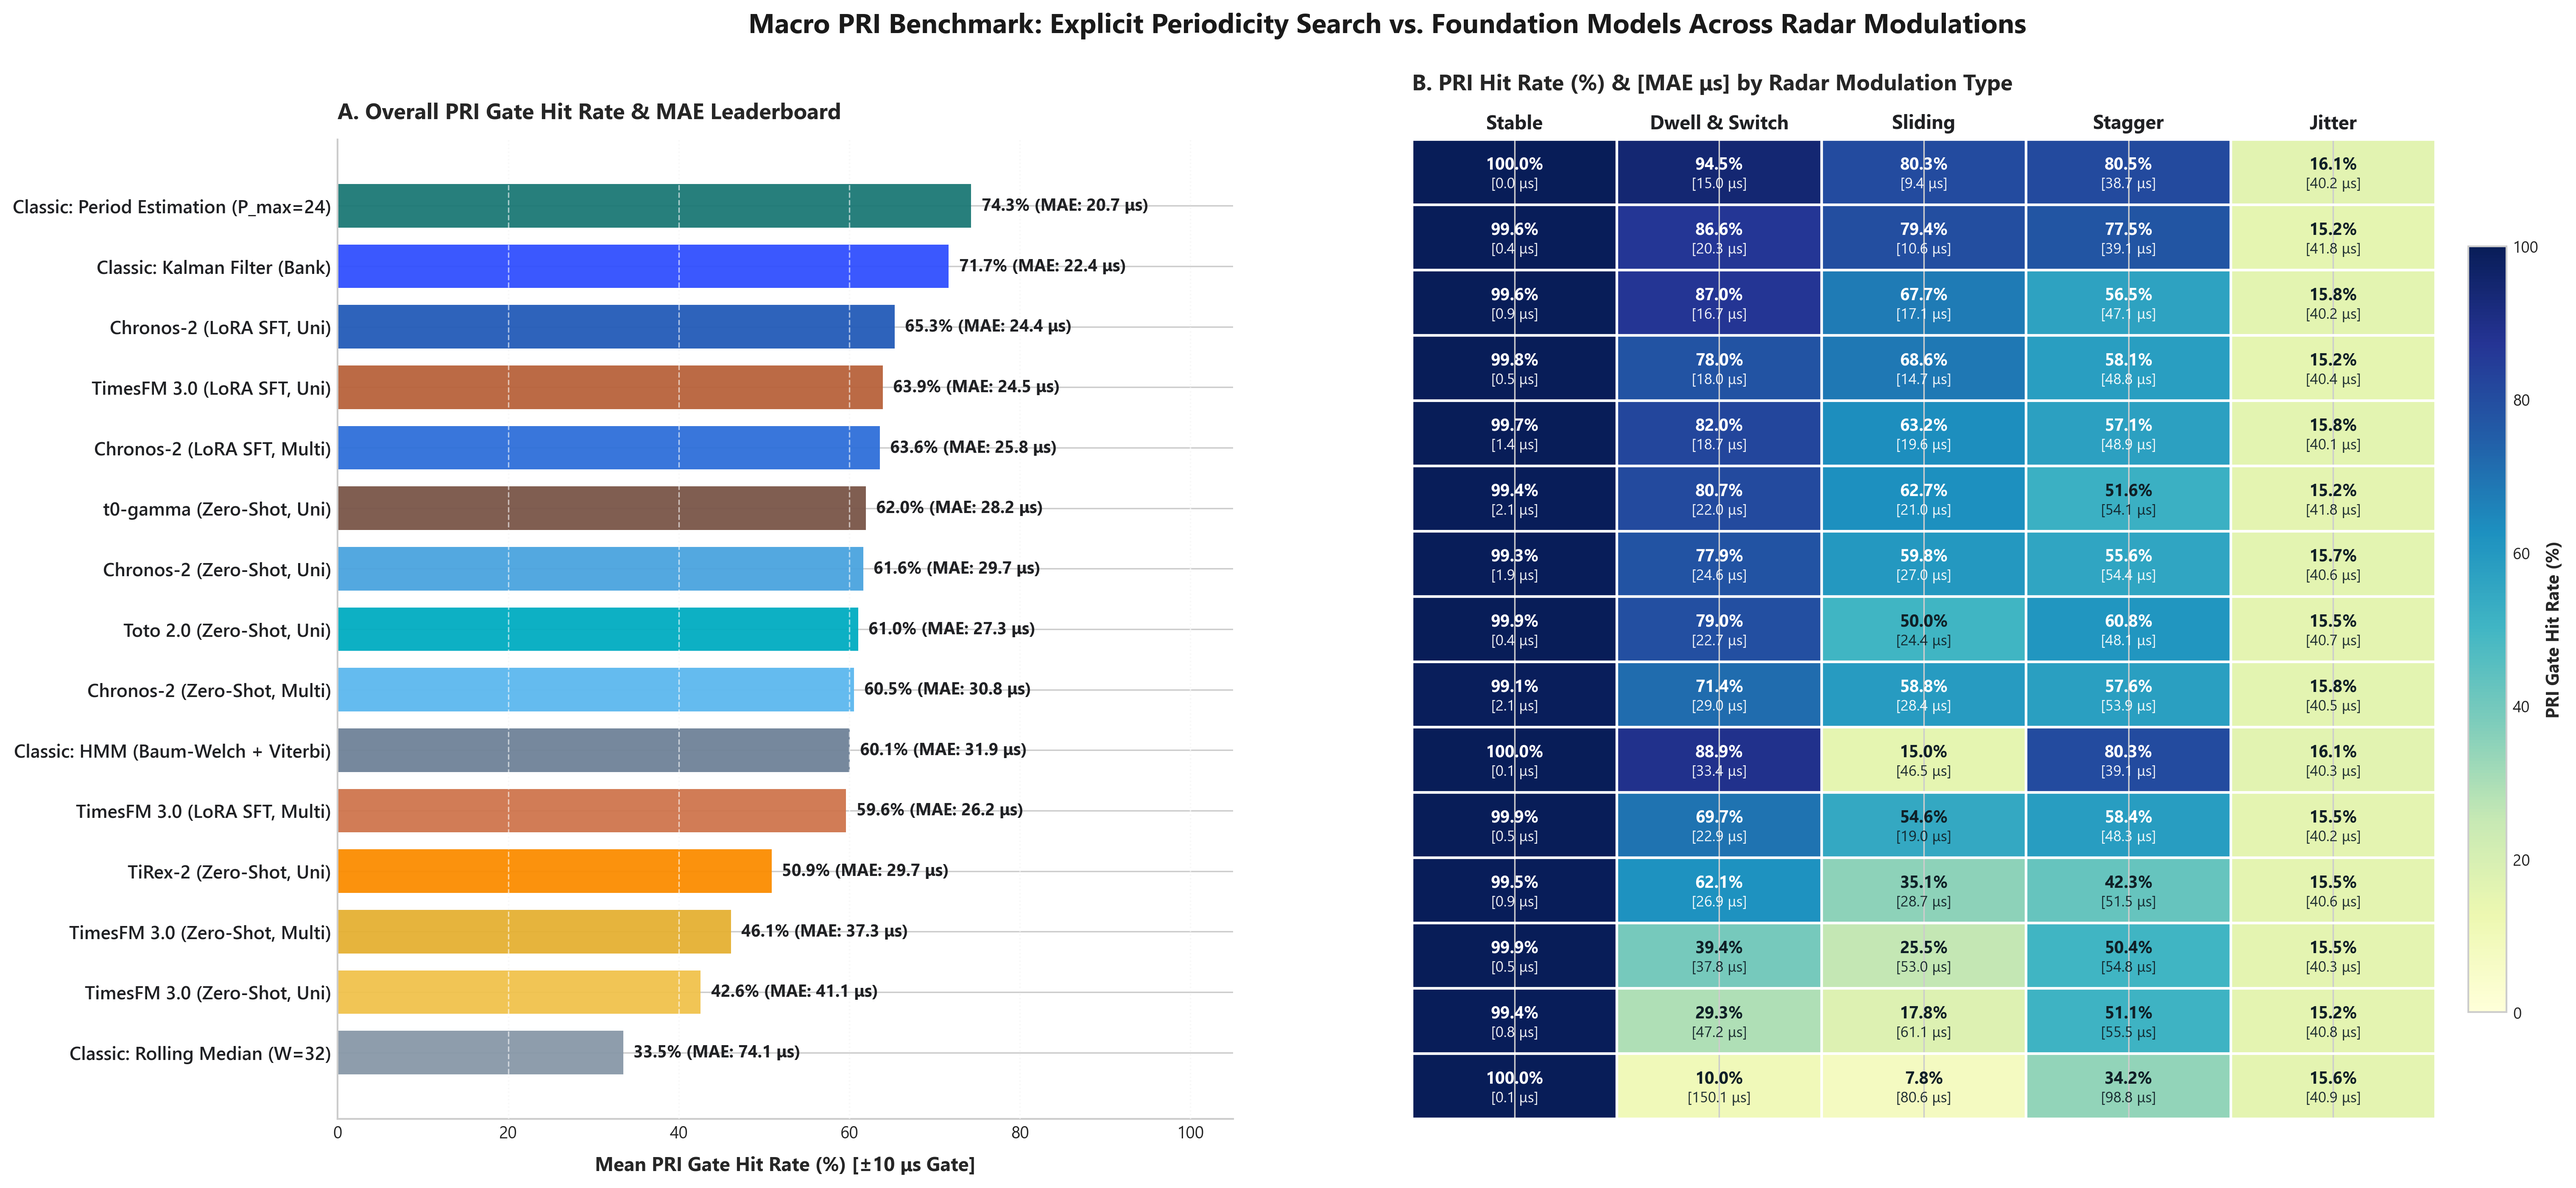
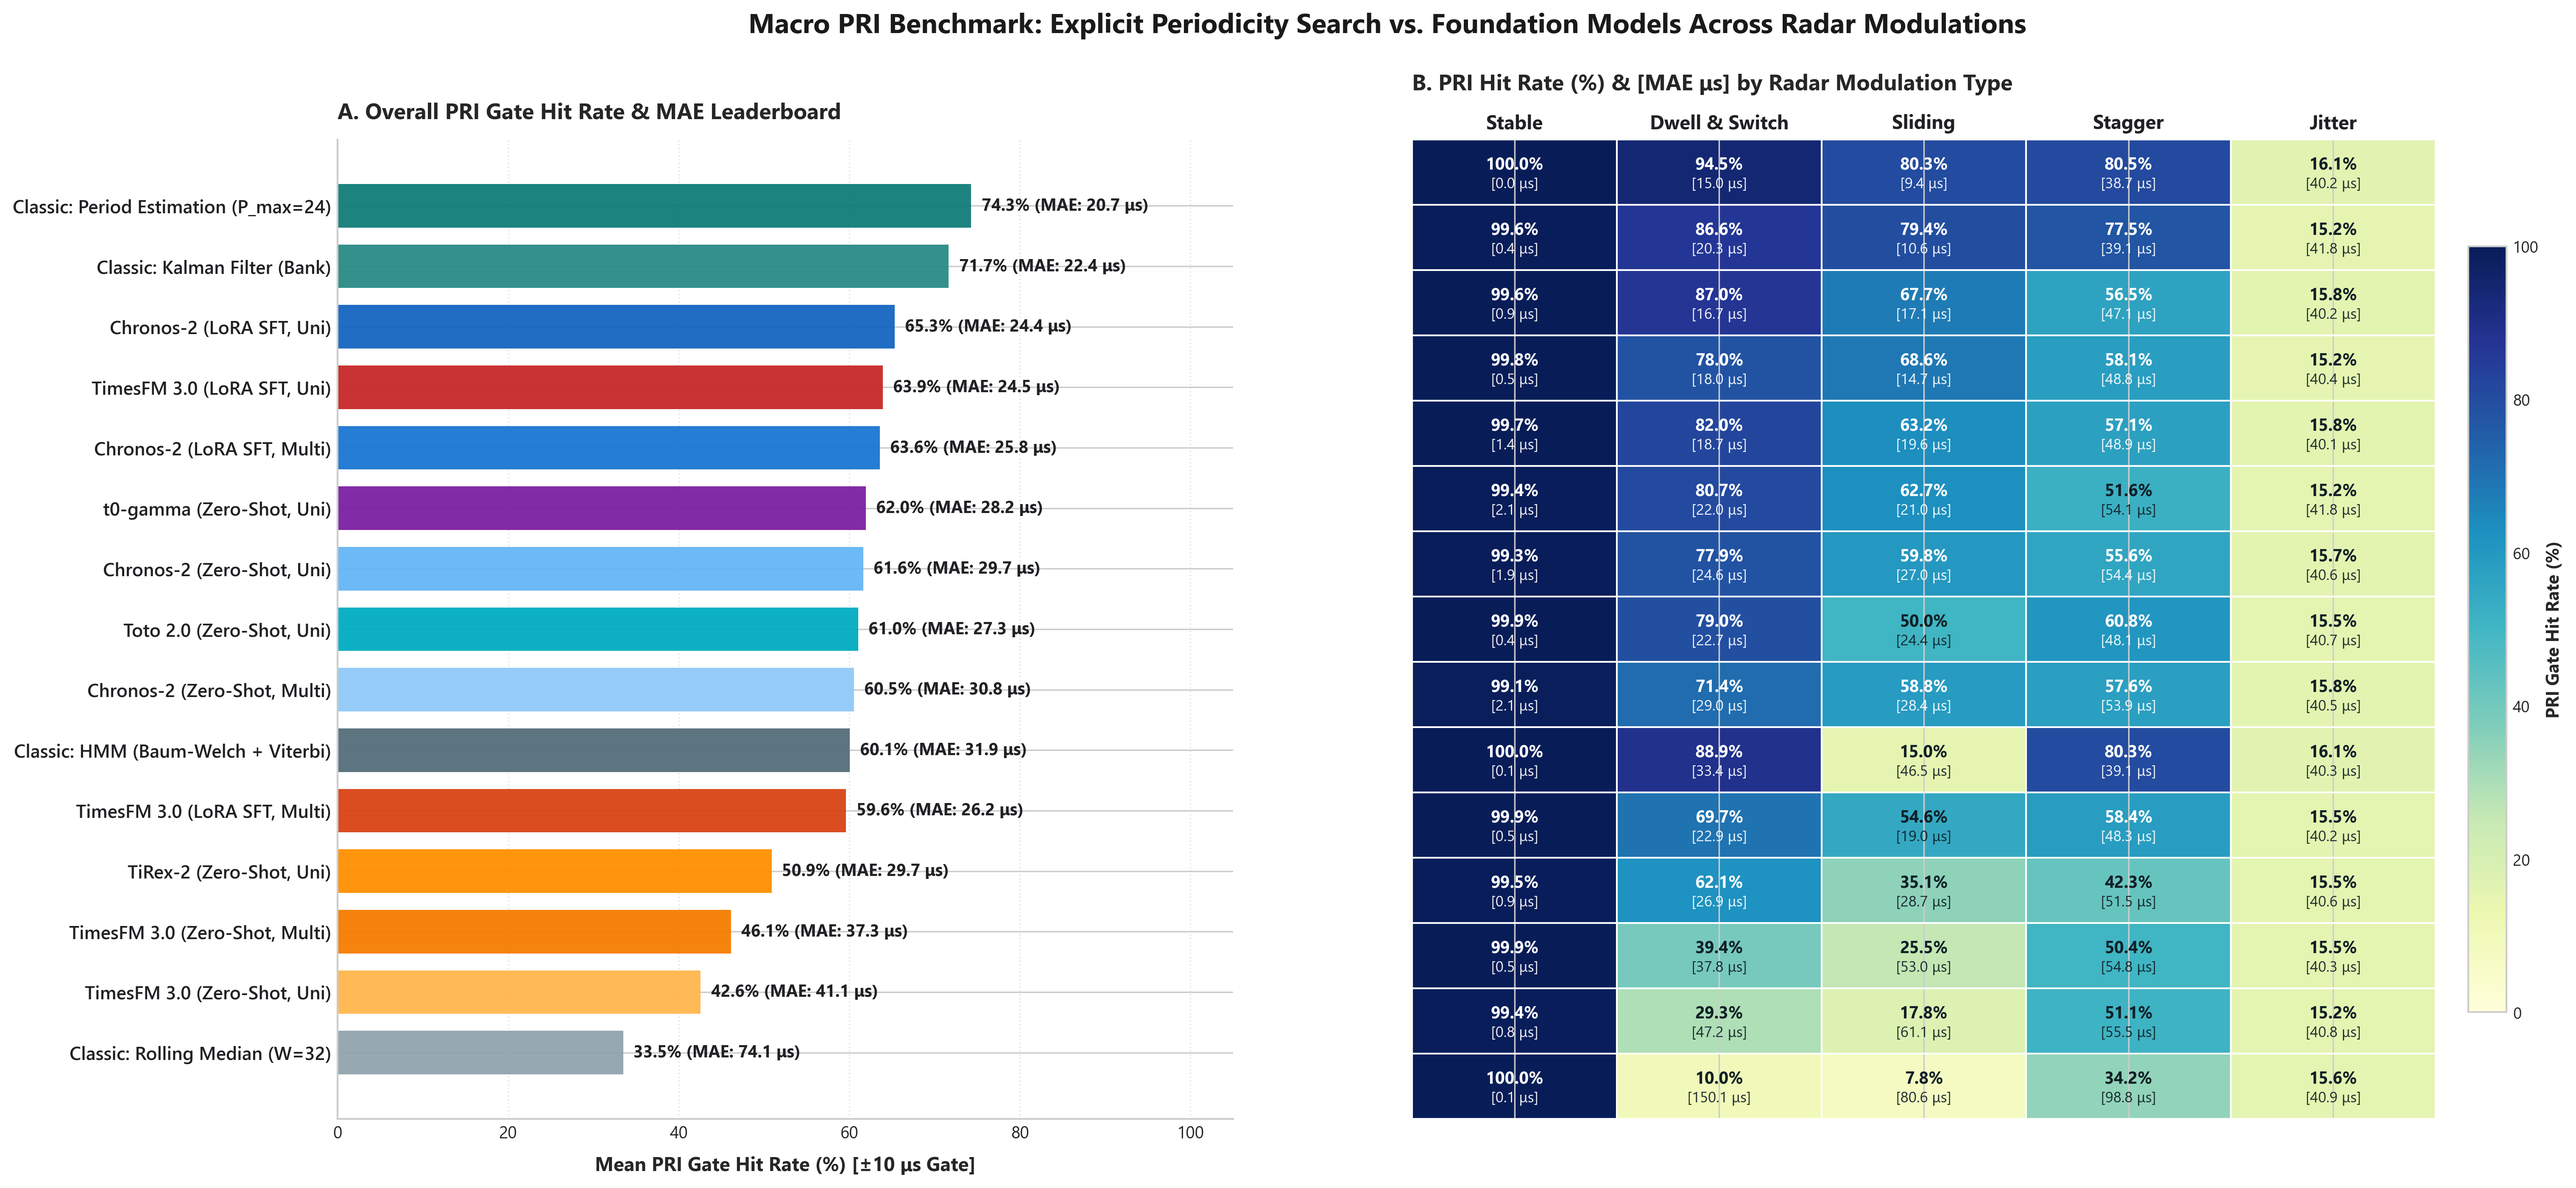
refactor(benchmark): combine Tier 1 & 2 tables, harmonize plot colors, and document data provenance

diff --git a/results/comparison/generate_master_plots.py b/results/comparison/generate_master_plots.py
@@ -60,108 +60,123 @@ ERROR_LABELS = ["Clean", "Error Lv1", "Error Lv2", "Error Lv3"]
 MODELS = [
     {
         "name": "Classic: Period Estimation (P_max=24)",
-        "color": "#1b7875",  # Teal Pine Green
+        "color": "#107c78",  # Classical: Deep Forest Teal
         "df": classic_df,
         "hit_col": "period_estimation_hit",
         "mae_col": "period_estimation_mae",
+        "category": "classic",
     },
     {
         "name": "Classic: Kalman Filter (Bank)",
-        "color": "#304ffe",  # Deep Indigo
+        "color": "#288a85",  # Classical: Medium Slate Teal
         "df": classic_df,
         "hit_col": "kalman_filter_hit",
         "mae_col": "kalman_filter_mae",
+        "category": "classic",
     },
     {
         "name": "Chronos-2 (LoRA SFT, Uni)",
-        "color": "#235bb8",  # Royal Blue
+        "color": "#1565c0",  # Chronos LoRA: Deep Royal Blue
         "df": chr_lora_df,
         "hit_col": "hit_rate_pct",
         "mae_col": "mae",
+        "category": "chronos_lora",
     },
     {
         "name": "TimesFM 3.0 (LoRA SFT, Uni)",
-        "color": "#b8623b",  # Warm Terracotta
+        "color": "#c62828",  # TimesFM LoRA: Deep Crimson Terracotta
         "df": tfm_lora_df,
         "hit_col": "gate_hit_rate_pct",
         "mae_col": "mae_us",
+        "category": "timesfm_lora",
     },
     {
         "name": "Chronos-2 (LoRA SFT, Multi)",
-        "color": "#2e6fd9",  # Slate Cobalt
+        "color": "#1976d2",  # Chronos LoRA: Vivid Cobalt Blue
         "df": chr_mv_lora_df,
         "hit_col": "hit_rate_pri",
         "mae_col": "mae_pri",
+        "category": "chronos_lora",
     },
     {
         "name": "t0-gamma (Zero-Shot, Uni)",
-        "color": "#795548",  # Deep Copper
+        "color": "#7b1fa2",  # Zero-Shot: Rich Amethyst Violet
         "df": t0_df,
         "hit_col": "gate_hit_rate_pct",
         "mae_col": "mae_us",
+        "category": "zs_other",
     },
     {
         "name": "Chronos-2 (Zero-Shot, Uni)",
-        "color": "#4aa3df",  # Cerulean / Sky Blue
+        "color": "#64b5f6",  # Chronos ZS: Light Sky Blue (matching Chronos family)
         "df": chr_zs_df,
         "hit_col": "hit_rate_pct",
         "mae_col": "mae",
+        "category": "chronos_zs",
     },
     {
         "name": "Toto 2.0 (Zero-Shot, Uni)",
-        "color": "#00acc1",  # Dark Cyan
+        "color": "#00acc1",  # Zero-Shot: Cyan / Teal
         "df": toto_df,
         "hit_col": "gate_hit_rate_pct",
         "mae_col": "mae_us",
+        "category": "zs_other",
     },
     {
         "name": "Chronos-2 (Zero-Shot, Multi)",
-        "color": "#5cb8ef",  # Lighter Sky Blue
+        "color": "#90caf9",  # Chronos ZS: Soft Ice Blue (matching Chronos family)
         "df": chr_mv_zs_df,
         "hit_col": "hit_rate_pri",
         "mae_col": "mae_pri",
+        "category": "chronos_zs",
     },
     {
         "name": "Classic: HMM (Baum-Welch + Viterbi)",
-        "color": "#6f8298",  # Slate Blue-Grey
+        "color": "#546e7a",  # Classical: Slate Grey
         "df": classic_df,
         "hit_col": "hidden_markov_model_hit",
         "mae_col": "hidden_markov_model_mae",
+        "category": "classic",
     },
     {
         "name": "TimesFM 3.0 (LoRA SFT, Multi)",
-        "color": "#cf754d",  # Terracotta Accent
+        "color": "#d84315",  # TimesFM LoRA: Rust / Burnt Orange
         "df": tfm_mv_lora_df,
         "hit_col": "hit_rate_pri",
         "mae_col": "mae_pri",
+        "category": "timesfm_lora",
     },
     {
         "name": "TiRex-2 (Zero-Shot, Uni)",
-        "color": "#fb8c00",  # Vivid Amber Orange
+        "color": "#ff8f00",  # Zero-Shot: Vivid Amber
         "df": tirex_df,
         "hit_col": "hit_rate_pct",
         "mae_col": "mae",
+        "category": "zs_other",
     },
     {
         "name": "TimesFM 3.0 (Zero-Shot, Multi)",
-        "color": "#e5b032",  # Amber Yellow
+        "color": "#f57c00",  # TimesFM ZS: Warm Orange-Gold (matching TimesFM family)
         "df": tfm_mv_zs_df,
         "hit_col": "hit_rate_pri",
         "mae_col": "mae_pri",
+        "category": "timesfm_zs",
     },
     {
         "name": "TimesFM 3.0 (Zero-Shot, Uni)",
-        "color": "#f1c24c",  # Light Gold
+        "color": "#ffb74d",  # TimesFM ZS: Light Golden Sand (matching TimesFM family)
         "df": tfm_zs_df,
         "hit_col": "gate_hit_rate_pct",
         "mae_col": "mae_us",
+        "category": "timesfm_zs",
     },
     {
         "name": "Classic: Rolling Median (W=32)",
-        "color": "#8898a8",  # Cool Grey
+        "color": "#90a4ae",  # Classical: Light Slate
         "df": classic_df,
         "hit_col": "rolling_median_hit",
         "mae_col": "rolling_median_mae",
+        "category": "classic",
     },
 ]
 
@@ -212,15 +227,15 @@ def render_benchmark_graphic(group_by="radar", out_filename="macro_pri_benchmark
     colors = [m["color"] for m in parsed_models]
     names = [m["name"] for m in parsed_models]
 
-    ax_bar.barh(y_pos, hits, color=colors, height=0.72, edgecolor="none", alpha=0.95)
+    ax_bar.set_axisbelow(True)
+    ax_bar.grid(axis="x", linestyle=":", color="#e0e0e0", alpha=0.8, zorder=0)
+
+    ax_bar.barh(y_pos, hits, color=colors, height=0.72, edgecolor="none", alpha=0.95, zorder=2)
     ax_bar.set_yticks(y_pos)
     ax_bar.set_yticklabels(names, fontsize=10.5, fontweight="semibold", color="#202124")
     ax_bar.set_xlim(0, 105)
     ax_bar.set_xlabel("Mean PRI Gate Hit Rate (%) [±10 μs Gate]", fontsize=11, fontweight="bold", labelpad=8)
     ax_bar.set_title("A. Overall PRI Gate Hit Rate & MAE Leaderboard", fontsize=12.5, fontweight="bold", loc="left", pad=12)
-
-    for x_val in [20, 40, 60, 80, 100]:
-        ax_bar.axvline(x_val, color="white", linestyle="--", linewidth=0.8, alpha=0.6, zorder=3)
 
     for idx, (hit, mae) in enumerate(zip(hits, maes)):
         y = y_pos[idx]
@@ -239,7 +254,6 @@ def render_benchmark_graphic(group_by="radar", out_filename="macro_pri_benchmark
     ax_bar.spines["right"].set_visible(False)
     ax_bar.spines["left"].set_color("#cccccc")
     ax_bar.spines["bottom"].set_color("#cccccc")
-    ax_bar.grid(axis="x", linestyle=":", color="#e0e0e0", alpha=0.5)
 
     # Right: Aligned Heatmap
     heat_matrix = np.zeros((N, len(cols)))
@@ -252,7 +266,7 @@ def render_benchmark_graphic(group_by="radar", out_filename="macro_pri_benchmark
 
     ax_heat.set_xticks(np.arange(len(cols)))
     ax_heat.set_xticklabels(col_labels, fontsize=11, fontweight="bold", color="#202124")
-    ax_heat.tick_params(top=True, labeltop=True, bottom=False, labelbottom=False)
+    ax_heat.tick_params(top=True, labeltop=True, bottom=False, labelbottom=False, left=False, right=False)
     ax_heat.set_yticks([])
 
     sub_title = (
@@ -291,11 +305,11 @@ def render_benchmark_graphic(group_by="radar", out_filename="macro_pri_benchmark
     cbar.set_label("PRI Gate Hit Rate (%)", fontsize=10, fontweight="bold")
     cbar.ax.tick_params(labelsize=9)
 
-    ax_heat.spines[:].set_color("#ffffff")
+    ax_heat.spines[:].set_visible(False)
     ax_heat.set_xticks(np.arange(len(cols) + 1) - 0.5, minor=True)
     ax_heat.set_yticks(np.arange(N + 1) - 0.5, minor=True)
-    ax_heat.grid(which="minor", color="white", linestyle="-", linewidth=1.5)
-    ax_heat.tick_params(which="minor", bottom=False, left=False)
+    ax_heat.grid(which="minor", color="white", linestyle="-", linewidth=1.0)
+    ax_heat.tick_params(which="minor", bottom=False, left=False, top=False, right=False)
 
     main_title = (
         "Macro PRI Benchmark: Explicit Periodicity Search vs. Foundation Models Across Radar Modulations"
